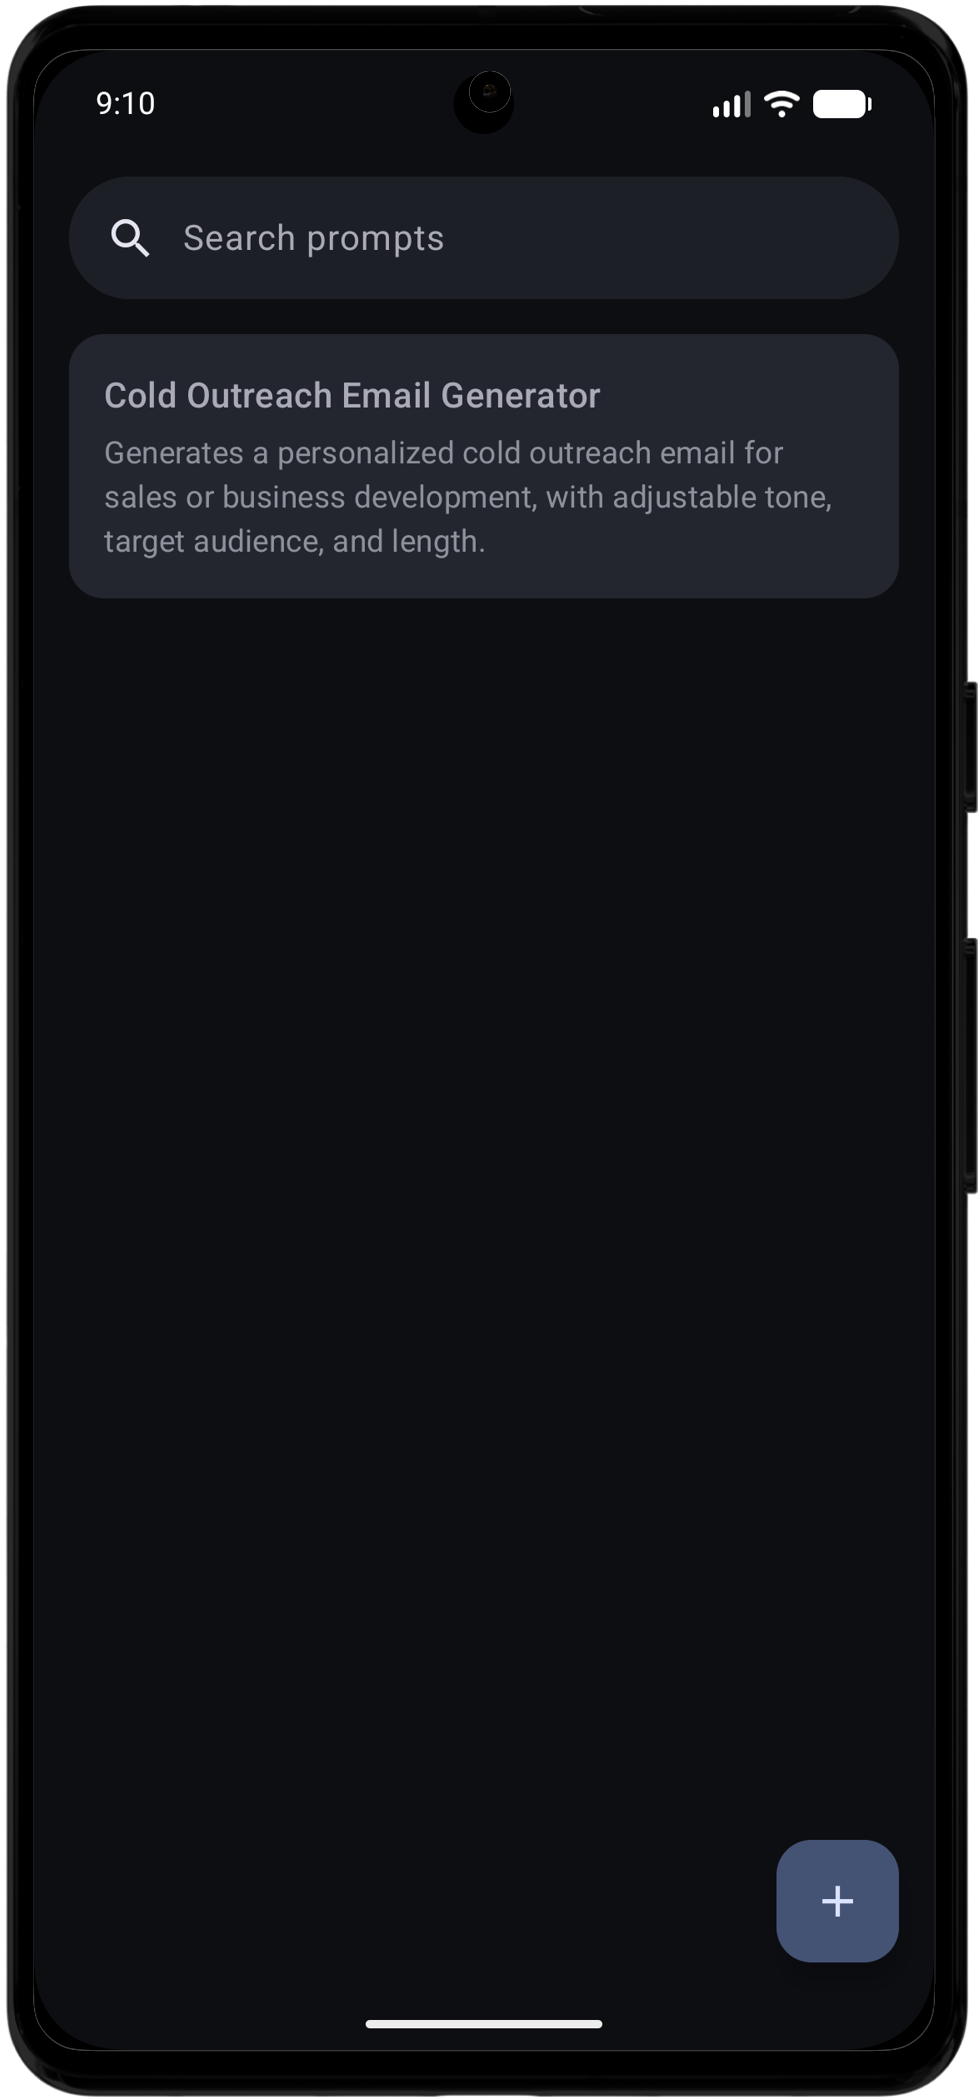
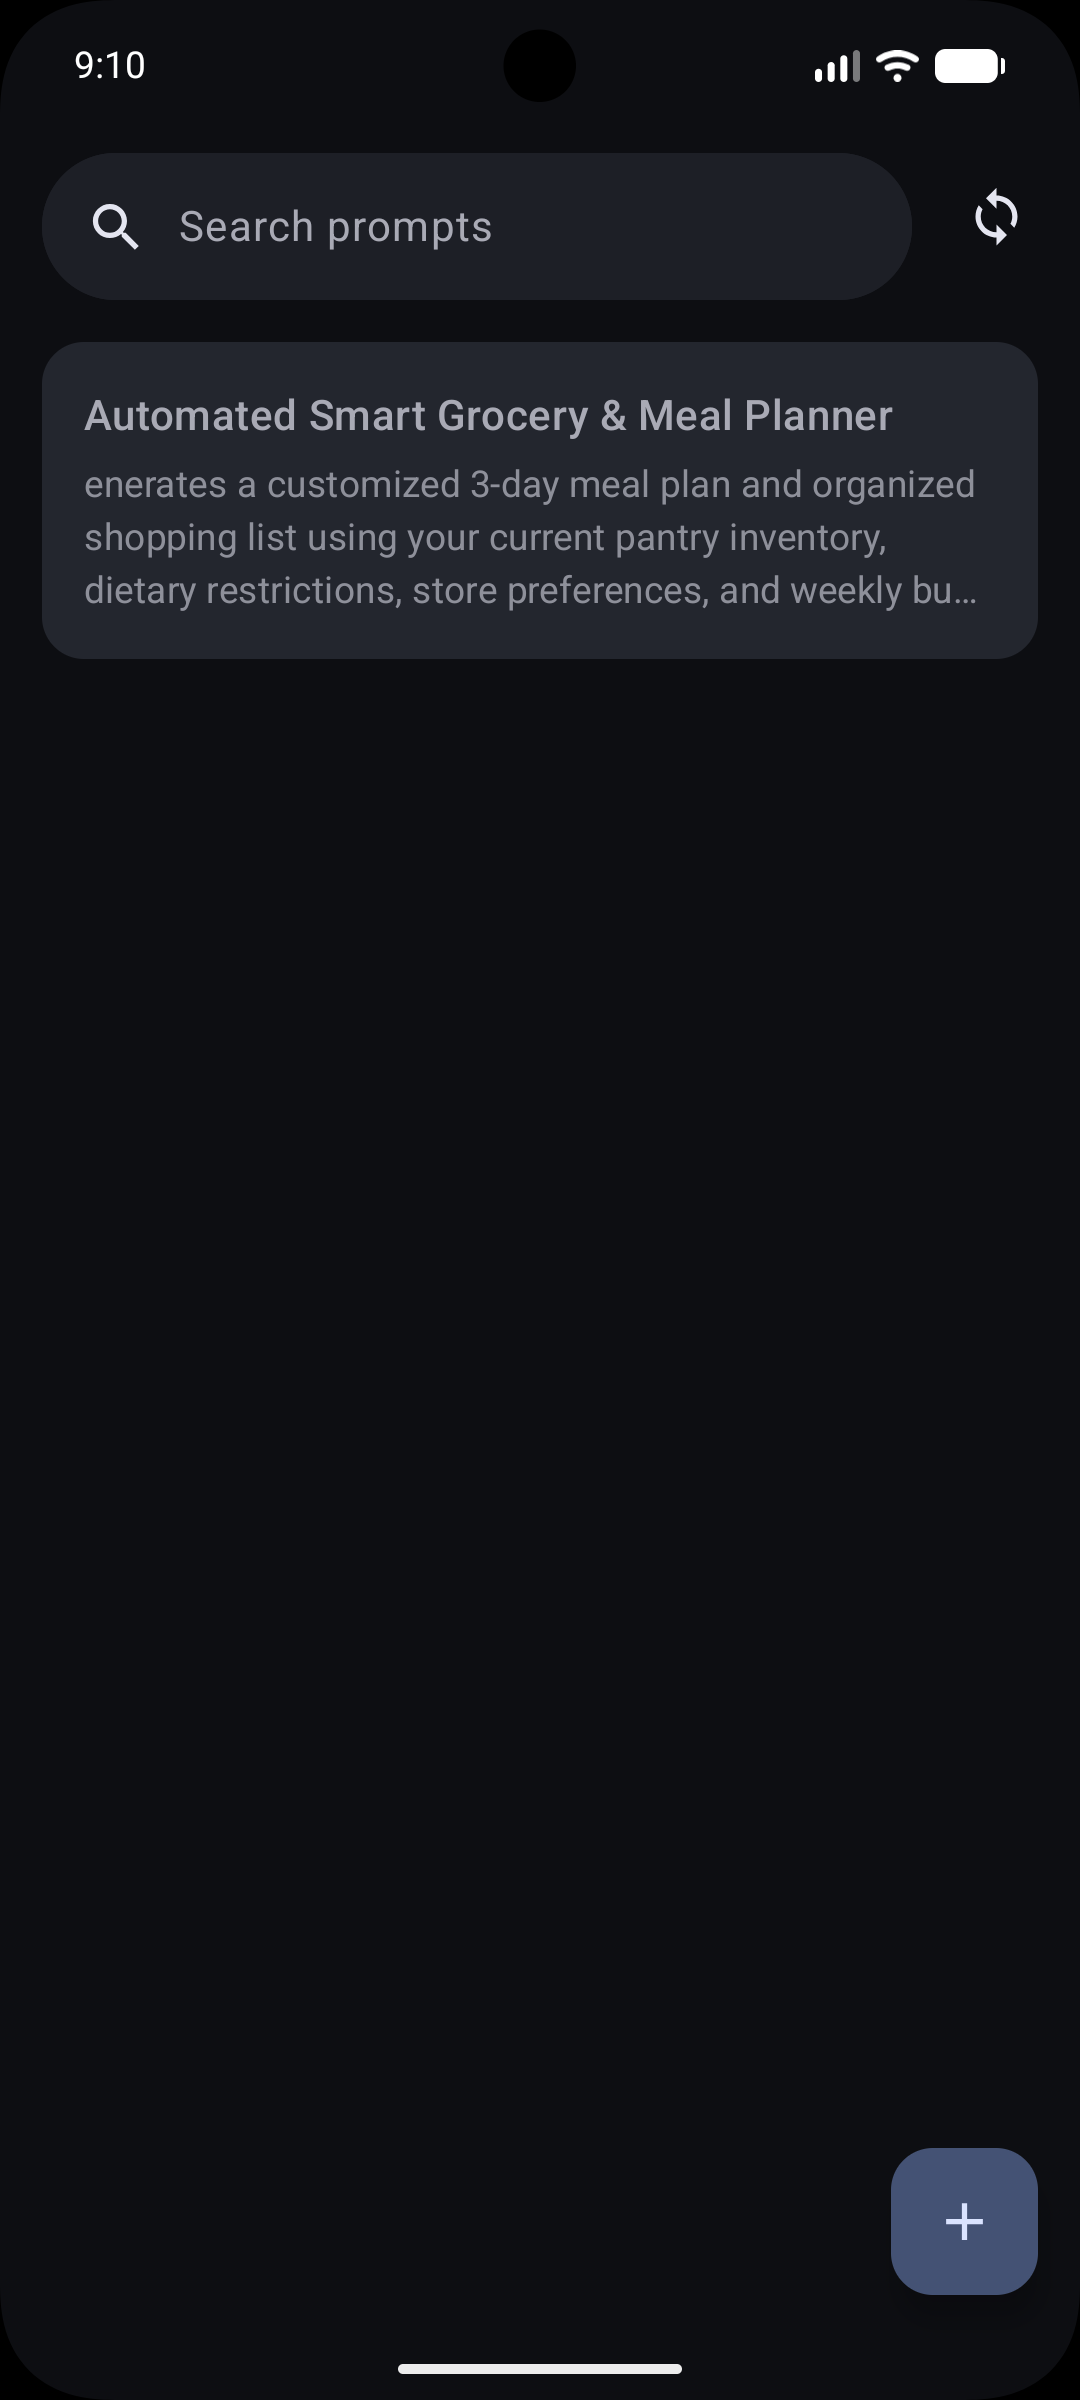
feat(ErrorMsg): Added ErrorMsg for json parse, feat(readME): Edited readme for new app version

Changed region(s): [[0.0, 0.0, 1.0, 1.0], [0.9202, 0.0619, 0.9509, 0.0929]]

diff --git a/app/src/main/java/it/xyra/mamout/domain/usecase/TemplatizePromptUseCase.kt b/app/src/main/java/it/xyra/mamout/domain/usecase/TemplatizePromptUseCase.kt
@@ -5,7 +5,10 @@ import it.xyra.mamout.domain.model.PromptMatch
 import it.xyra.mamout.domain.parser.MarkerTool
 import it.xyra.mamout.domain.parser.ParsedPromptTemplate
 import it.xyra.mamout.domain.parser.TagPromptParser
+import kotlinx.serialization.SerializationException
 import kotlinx.serialization.json.Json
+
+class TemplatizeException(message: String, cause: Throwable? = null) : Exception(message, cause)
 
 class TemplatizePromptUseCase {
 
@@ -64,6 +67,7 @@ class TemplatizePromptUseCase {
     - start_marker/end_marker must be integers that actually appear in the input; never invent one.
     - Keep the marker span as tight as possible around the target — exclude surrounding spaces/quotes/punctuation unless they too must be replaced.
     - Adjacent distinct points must have non-overlapping marker spans.
+    - CRITICAL JSON SYNTAX: All double quotes inside string values (such as original_text) MUST be properly escaped with backslashes (e.g. "\"example\"").
     </MARKER_SELECTION_RULES>
     
     <OUTPUT_SCHEMA>
@@ -121,12 +125,46 @@ class TemplatizePromptUseCase {
      * `{...}` object before deserializing, so a straight copy-paste from a chat UI
      * still works.
      *
-     * @throws SerializationException if no JSON object can be found or parsed.
+     * @throws TemplatizeException if no valid JSON object can be found or parsed.
      */
     fun templatize(originalPrompt: String, llmJsonResponse: String): ParsedPromptTemplate {
+        if (llmJsonResponse.isBlank()) {
+            throw TemplatizeException("Please paste the JSON response from the AI first.")
+        }
+
         val jsonObject = extractJsonObject(llmJsonResponse)
-        val response = Json { ignoreUnknownKeys = true }.decodeFromString<MetaPromptResponse>(jsonObject)
+        if (!jsonObject.contains("{") || !jsonObject.contains("}")) {
+            throw TemplatizeException("No valid JSON object found in the pasted text. Make sure to copy the entire AI output starting with '{' and ending with '}'.")
+        }
+
+        val response = try {
+            Json { ignoreUnknownKeys = true }.decodeFromString<MetaPromptResponse>(jsonObject)
+        } catch (e: SerializationException) {
+            val friendlyMsg = buildFriendlyJsonErrorMessage(e)
+            throw TemplatizeException(friendlyMsg, e)
+        } catch (e: Exception) {
+            throw TemplatizeException("Unable to process the AI response. Please verify that you copied the complete JSON output.", e)
+        }
+
         return processLlmResponse(originalPrompt, response.matches)
+    }
+
+    private fun buildFriendlyJsonErrorMessage(e: SerializationException): String {
+        val msg = e.message.orEmpty()
+        return when {
+            msg.contains("EOF") || msg.contains("Unexpected end") -> {
+                "The JSON response appears to be incomplete or cut off. Please check if you copied the full message from the AI."
+            }
+            msg.contains("Unexpected JSON token") || msg.contains("Unexpected symbol") || msg.contains("string") -> {
+                "The JSON response contains a syntax error (likely unescaped quote marks inside text values). Try escaping internal quotes with a backslash (\") or ask the AI to re-format its JSON."
+            }
+            msg.contains("Field") || msg.contains("missing") -> {
+                "The JSON response structure is missing expected fields (e.g. 'matches'). Make sure you used the generated meta-prompt with the AI."
+            }
+            else -> {
+                "The pasted text is not valid JSON. Please ensure you copied the complete response from the AI without modifications."
+            }
+        }
     }
 
     /**

diff --git a/app/src/test/java/it/xyra/mamout/domain/usecase/TemplatizeFlowTest.kt b/app/src/test/java/it/xyra/mamout/domain/usecase/TemplatizeFlowTest.kt
@@ -6,6 +6,7 @@ import it.xyra.mamout.domain.model.PromptMatch
 import it.xyra.mamout.domain.parser.InputType
 import it.xyra.mamout.domain.parser.MarkerTool
 import it.xyra.mamout.domain.parser.PromptSegment
+import org.junit.Assert
 import org.junit.Assert.assertEquals
 import org.junit.Assert.assertTrue
 import org.junit.Test
@@ -77,5 +78,43 @@ class TemplatizeFlowTest {
             renderedText.contains("<INPUT type=\"smallText\">name</INPUT>")
         )
         assertEquals("Hello: <INPUT type=\"smallText\">name</INPUT>.", renderedText)
+    }
+
+    @Test
+    fun `invalid JSON with unescaped quotes throws TemplatizeException with friendly syntax message`() {
+        val rawPrompt = "Hello world"
+        val badJson = """
+            {
+              "matches": [
+                {
+                  "start_marker": 1,
+                  "end_marker": 2,
+                  "match_kind": "edit",
+                  "original_text": ""invalid", "quotes"",
+                  "field_type": "smallText"
+                }
+              ]
+            }
+        """.trimIndent()
+
+        try {
+            useCase.templatize(rawPrompt, badJson)
+            Assert.fail("Expected TemplatizeException")
+        } catch (e: TemplatizeException) {
+            assertTrue(
+                "Error message should mention syntax / quote issue",
+                e.message!!.contains("unescaped quote marks") || e.message!!.contains("syntax error")
+            )
+        }
+    }
+
+    @Test
+    fun `blank JSON response throws TemplatizeException`() {
+        try {
+            useCase.templatize("Hello", "")
+            Assert.fail("Expected TemplatizeException")
+        } catch (e: TemplatizeException) {
+            assertTrue(e.message!!.contains("paste the JSON response"))
+        }
     }
 }

diff --git a/app/src/main/java/it/xyra/mamout/ui/addprompt/AddPromptViewModel.kt b/app/src/main/java/it/xyra/mamout/ui/addprompt/AddPromptViewModel.kt
@@ -7,6 +7,7 @@ import it.xyra.mamout.domain.model.Prompt
 import it.xyra.mamout.domain.model.PromptSearchable
 import it.xyra.mamout.domain.repository.PromptRepository
 import it.xyra.mamout.domain.usecase.SearchPromptsUseCase
+import it.xyra.mamout.domain.usecase.TemplatizeException
 import it.xyra.mamout.domain.usecase.TemplatizePromptUseCase
 import kotlinx.coroutines.FlowPreview
 import kotlinx.coroutines.flow.*
@@ -57,7 +58,7 @@ class AddPromptViewModel(
 
     fun applyLlmResponse(jsonResponse: String) {
         if (jsonResponse.isBlank()) {
-            _uiState.update { it.copy(error = "Paste the LLM's JSON response first") }
+            _uiState.update { it.copy(error = "Please paste the JSON response from the AI first.") }
             return
         }
         try {
@@ -69,9 +70,13 @@ class AddPromptViewModel(
                     step = 3 // Move to preview/refine step
                 )
             }
-        } catch (e: Exception) {
+        } catch (e: TemplatizeException) {
             _uiState.update {
-                it.copy(error = "Couldn't read that as JSON. Make sure you pasted the full response: ${e.message}")
+                it.copy(error = e.message ?: "Unable to process the AI response.")
+            }
+        } catch (_: Exception) {
+            _uiState.update {
+                it.copy(error = "Couldn't read that as JSON. Please make sure you copied the complete response from the AI.")
             }
         }
     }

diff --git a/app/src/test/java/it/xyra/mamout/ui/search/SearchViewModelTest.kt b/app/src/test/java/it/xyra/mamout/ui/search/SearchViewModelTest.kt
@@ -46,8 +46,8 @@ class SearchViewModelTest {
     fun `when query changes, UI state is updated with filtered results`() = runTest {
         // Given a repository with initial data
         val prompts = listOf(
-            Prompt(1, "Apple", "Red fruit"),
-            Prompt(2, "Banana", "Yellow fruit")
+            Prompt(1, "Apple", "Red fruit", 0L),
+            Prompt(2, "Banana", "Yellow fruit", 0L)
         )
         fakeRepository.emit(prompts.map { PromptSearchable(it, "") })
         
@@ -68,8 +68,8 @@ class SearchViewModelTest {
     @Test
     fun `when query is empty, UI state shows all results`() = runTest {
         val prompts = listOf(
-            Prompt(1, "Apple", "Red fruit"),
-            Prompt(2, "Banana", "Yellow fruit")
+            Prompt(1, "Apple", "Red fruit", 0L),
+            Prompt(2, "Banana", "Yellow fruit", 0L)
         )
         fakeRepository.emit(prompts.map { PromptSearchable(it, "") })
         advanceUntilIdle()
@@ -113,6 +113,12 @@ class SearchViewModelTest {
         }
 
         override suspend fun savePrompt(title: String, description: String, templateText: String) {
+            // Not needed for SearchViewModel tests
+        }
+
+        override suspend fun getAllPromptsSync(): List<PromptSearchable> = emptyList()
+
+        override suspend fun syncPrompts(prompts: List<PromptSearchable>) {
             // Not needed for SearchViewModel tests
         }
     }

diff --git a/app/src/test/java/it/xyra/mamout/ui/addprompt/AddPromptViewModelTest.kt b/app/src/test/java/it/xyra/mamout/ui/addprompt/AddPromptViewModelTest.kt
@@ -98,5 +98,11 @@ class AddPromptViewModelTest {
             savedTitle = title
             savedText = templateText
         }
+
+        override suspend fun getAllPromptsSync(): List<PromptSearchable> = emptyList()
+
+        override suspend fun syncPrompts(prompts: List<PromptSearchable>) {
+            // No-op for now
+        }
     }
 }

diff --git a/README.md b/README.md
@@ -15,6 +15,7 @@ The core strength of Mamout is its custom template engine, which transforms stat
 - **AI-Powered Templatization** — Automatically convert raw text into dynamic templates via an LLM-based analysis module.
 - **Interactive Prompt Viewer** — Automatically generates UI components for template variables, with real-time prompt compilation and preview.
 - **Advanced Search** — Quickly locate prompts by title or content.
+- **Real-Time Extension & Device Sync** — Integrated local WebSocket server powered by Ktor to synchronize prompts in real-time with browser extensions or secondary devices.
 - **Material 3 Design** — Modern UI following the latest Android guidelines, with smooth shared element transitions.
 - **Offline First** — Full local persistence via Room Database; your data is always accessible without an internet connection.
 - **Clean Architecture** — Clear separation of concerns (UI, Domain, Data) for maintainability, scalability, and testability.
@@ -27,6 +28,7 @@ The core strength of Mamout is its custom template engine, which transforms stat
 | UI Framework | Jetpack Compose (Material 3) |
 | Architecture | Clean Architecture + MVVM |
 | Database | Room (local persistence) |
+| Real-Time Sync | Ktor Embedded Server (Netty) + WebSockets |
 | Navigation | Jetpack Navigation Compose |
 | Concurrency | Kotlin Coroutines & Flow |
 | Serialization | Kotlinx Serialization |
@@ -56,6 +58,17 @@ Translate the following text to <INPUT type="options" values="Italian, French, S
 
 Mamout includes a `TemplatizePromptUseCase` designed to interface with Large Language Models. It uses a marker-based positioning system (`|N|`) so an LLM can identify insertion and edit points without altering the original text structure — ensuring high precision when converting existing prompts into dynamic Mamout templates while avoiding truncation issues.
 
+## Real-Time Synchronization
+
+Mamout features an embedded local WebSocket server that enables real-time bidirectional sync between the mobile app and connected clients (such as browser extensions or secondary devices) over Wi-Fi / local network.
+
+### Key Highlights
+
+- **Embedded Ktor WebSocket Server** — Runs a lightweight Ktor Netty server directly on the Android device (`SyncServer.kt`), dynamically bound to the local IPv4 address (`NetworkUtils.kt`).
+- **Automatic Broadcasting** — Whenever a prompt is created, updated, or deleted locally, `SyncManager` broadcasts an updated JSON payload (`SyncPayload`) to all active sessions.
+- **Bi-Directional Merge** — Incoming prompts sent over WebSocket connections are merged into local Room storage using timestamp-based (`lastModified`) conflict resolution.
+- **Live Status & Control** — Displays connection state (IP, port, active session count) in the app UI with start/stop server toggles.
+
 ## Project Structure
 
 The project follows a modular Clean Architecture pattern within the `app` module:
@@ -64,7 +77,8 @@ The project follows a modular Clean Architecture pattern within the `app` module
 it.xyra.mamout
 ├── ui/       # Presentation layer: Compose screens, ViewModels, components, theming
 ├── domain/   # Business logic: use cases, domain models, template parser
-└── data/     # Data layer: Room entities, DAOs, repository implementations
+├── data/     # Data layer: Room entities, DAOs, repository implementations
+└── sync/     # Real-time WebSocket sync server, NetworkUtils & SyncManager
 ```
 
 ## Getting Started
